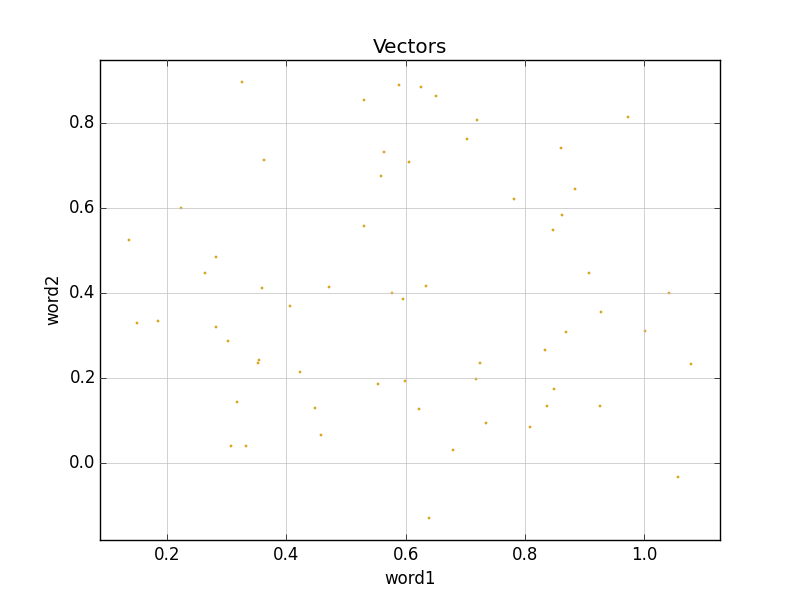
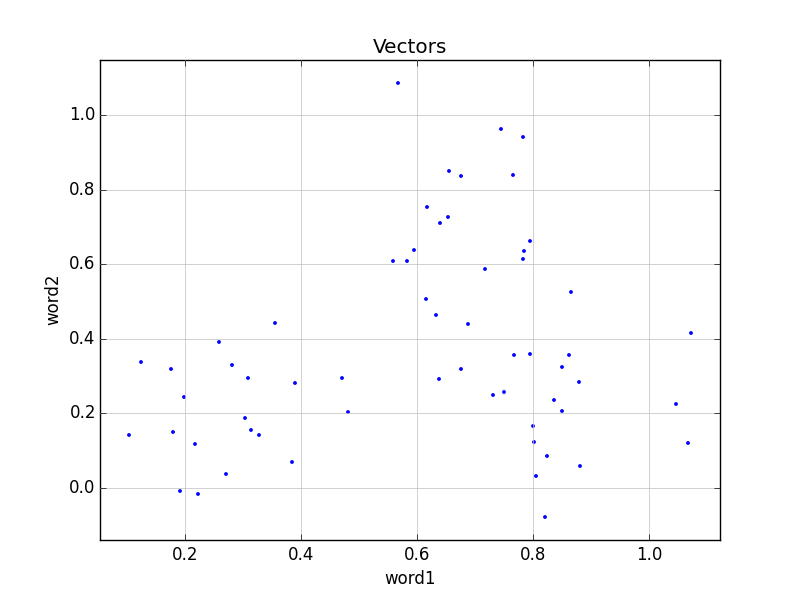
they happen to fly ehn it rains

diff --git a/main/ch03/plot_cluster_clement.py b/main/ch03/plot_cluster_clement.py
@@ -1,9 +1,12 @@
 
-import scipy.stats as stats
+from scipy.stats import norm
 import matplotlib.pylab
 import matplotlib.pyplot as plt
 import os
 import numpy as np
+import scipy as sp
+import pdb
+from sklearn.cluster import KMeans
 
 
 
@@ -24,55 +27,97 @@ CHART_DIR = os.path.join(
 if not os.path.exists(CHART_DIR):
     os.mkdir(CHART_DIR)
 
-print "helloStatic"
+num_clusters = 3
+seed = 2
+
+
+rangero = np.arange(0,1,0.001)
+
+
 
 class Plotter():
     
     def main(self):
-        print "hello"
-        #define a set of random data
-        dataX, dataY = self.createNormalizedDataSets()
+        #define a set of random dataset
+        x, y = self.createNormalizedDataSets()
+
+        km = KMeans(init='random', n_clusters=num_clusters, verbose=1,
+            n_init=1, max_iter=1,
+            random_state=seed)
+        training = np.array(list(zip(x, y)))
+        km.fit(training)
+        
+        #define a meshgrid from -1 to 1
+        X,Y = self.createMeshGrid()
+        
+        testing = self.convertMeshGrid(X,Y)
+
+        #create a prediction model from dataset
+        model = self.createPredictionModel(x,y , km,testing, X)
+
 
         #plot the data
-        self.plot_chart(dataX, dataY, "Vectors")
+        self.plot_chart(dataset, "Vectors")
 
-        #define a meshgrid from -1 to 1
+        self.plot_chart(dataset, "Prediction",testing)
+
+
 
     def createNormalizedDataSets(self):
-        xw1 = stats.norm(loc=0.3,scale=.15).rvs(20)
-        yw1 = stats.norm(loc=0.3,scale=.15).rvs(20)
-        xw2 = stats.norm(loc=0.7,scale=.15).rvs(20)
-        yw2 = stats.norm(loc=0.7,scale=.15).rvs(20)
-        xw3 = stats.norm(loc=0.8,scale=.15).rvs(20)
-        yw3 = stats.norm(loc=0.2,scale=.15).rvs(20)
+        xw1 = norm(loc=0.3, scale=.15).rvs(20)
+        yw1 = norm(loc=0.3, scale=.15).rvs(20)
 
-        dataX = np.append(np.append(xw1,xw2),xw3)
-        dataY = np.append(np.append(yw1,yw2),yw3)
+        xw2 = norm(loc=0.7, scale=.15).rvs(20)
+        yw2 = norm(loc=0.7, scale=.15).rvs(20)
 
-        return dataX, dataY
+        xw3 = norm(loc=0.2, scale=.15).rvs(20)
+        yw3 = norm(loc=0.8, scale=.15).rvs(20)
+
+        x = sp.append(sp.append(xw1, xw2), xw3)
+        y = sp.append(sp.append(yw1, yw2), yw3)
+
+        return x,y
+
+    def createMeshGrid(self):
+        X,Y =   np.meshgrid(rangero,rangero)
+        
+        return X,Y
+
+    def convertMeshGrid(self, X,Y):
+        vstack = np.vstack([X.ravel(),Y.ravel()])
+        transposed =  vstack.T
+        return transposed
+
+    def createPredictionModel(self, x,y ,km,testing, X):
+      
+             
+       Z = km.predict(testing)
+
+  
+       CT = Z.reshape(X.shape)
 
 
-    def plot_chart(self,dataX,dataY,title):
-        print "plotting"
+    def plot_chart(self,dataset,title,C=None):
+
+        
+
+
         plt.figure(num=None, figsize=(8, 6))
         plt.clf()
-        plt.scatter(dataX, dataY, s=1, color='#DAA520')
-
+        plt.scatter(dataset[:,0], dataset[:,1], s=3, color='b')
         plt.title(title)
         plt.xlabel("word1")
         plt.ylabel("word2")
-       
-
         plt.autoscale(tight=True)
-       
         plt.grid(True, linestyle='-', color='0.75')
+        if C:
+            plt.pcolormesh(X, Y, C, cmap=plot.cm.Blues)
         plt.savefig(os.path.join(CHART_DIR, title))
-        print "finished plotting"
 
-       
+
+
         
 if __name__ == "__main__":
-    print "hallo"
     Plotter().main()
 
 

diff --git a/main/ch03/plot_cluster_book.py b/main/ch03/plot_cluster_book.py
@@ -14,6 +14,8 @@ import scipy as sp
 from scipy.stats import norm
 from matplotlib import pylab
 from sklearn.cluster import KMeans
+import pdb
+import numpy as np
 
 CHART_DIR = os.path.join(
     os.path.dirname(os.path.realpath(__file__)), "charts")
@@ -56,7 +58,7 @@ yw3 = norm(loc=0.8, scale=.15).rvs(20)
 x = sp.append(sp.append(xw1, xw2), xw3)
 y = sp.append(sp.append(yw1, yw2), yw3)
 
-print x
+
 
 i = 1
 plot_clustering(x, y, "Vectors")
@@ -69,12 +71,19 @@ i += 1
 
 mx, my = sp.meshgrid(sp.arange(0, 1, 0.001), sp.arange(0, 1, 0.001))
 
+
+
 km = KMeans(init='random', n_clusters=num_clusters, verbose=1,
             n_init=1, max_iter=1,
             random_state=seed)
-km.fit(sp.array(list(zip(x, y))))
+training = np.array(list(zip(x, y)))
+km.fit(training)
 
-Z = km.predict(sp.c_[mx.ravel(), my.ravel()]).reshape(mx.shape)
+
+testing = sp.c_[mx.ravel(), my.ravel()]
+pdb.set_trace()
+
+Z = km.predict(testing).reshape(mx.shape)
 
 plot_clustering(x, y, "Clustering iteration 1", km=km)
 pylab.imshow(Z, interpolation='nearest',

diff --git a/main/ch03/pdbTest.py b/main/ch03/pdbTest.py
@@ -1,0 +1,8 @@
+# epdb1.py -- experiment with the Python debugger, pdb
+a = "aaa"
+b = "bbb"
+c = "ccc"
+import pdb
+pdb.set_trace()
+final = a + b + c
+print final
